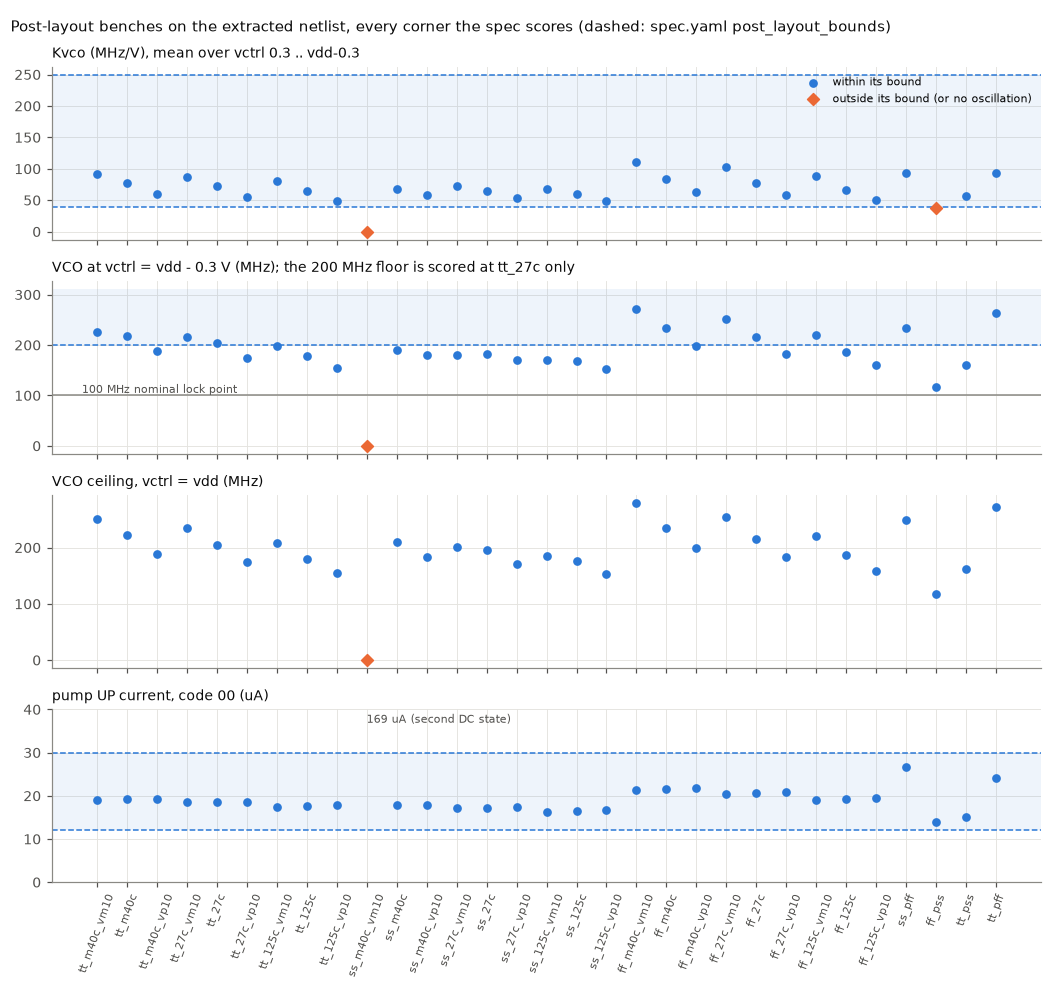
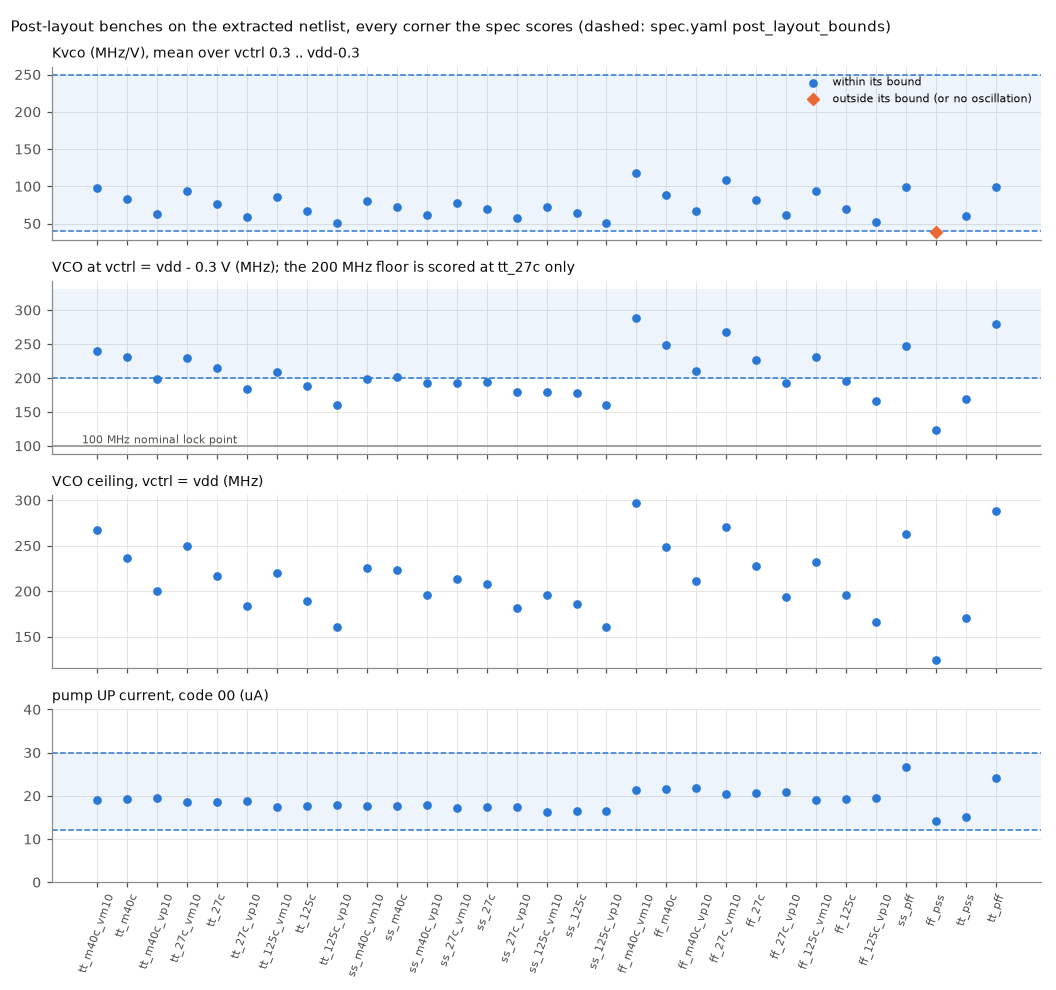
Review page, stages page, figures and GOALS.md report the rebuilt macro and tile: pex_pvt 30/31, ss_m40c_vm10 passes, ff_pss Kvco 39.2

diff --git a/docs/review/stages.md b/docs/review/stages.md
@@ -12,24 +12,24 @@ $CHIP_FLOW_HOME/engine/scripts/gate.py` in place of `chip-flow gate`. The
 commands without chip-flow (the RTL test, klayout, gtkwave) need only those
 tools. Run them from the repository's root.
 
-**23 of 29 gates pass on their last recorded run.** 6 fail.
+**27 of 29 gates pass on their last recorded run.** 2 fail.
 
 ## Spec and split
 
 | gate | shows | result | what it found | run | see it yourself |
 |---|---|---|---|---|---|
 | spec_lint (digital) | the digital requirements are complete and each names its check | pass |  | 2026-10-29 | `blocks/pll/digital/spec/spec.md`<br>`chip-flow gate --gate spec_lint --skill vde --workspace blocks/pll/digital` |
-| spec_lint (analog) | the analog spec's bounds, corners and benches are well formed | pass |  | 2026-10-29 | `blocks/pll/analog/spec/spec.md`<br>`chip-flow gate --gate spec_lint --skill ade --workspace blocks/pll/analog` |
+| spec_lint (analog) | the analog spec's bounds, corners and benches are well formed | pass |  | 2026-10-30 | `blocks/pll/analog/spec/spec.md`<br>`chip-flow gate --gate spec_lint --skill ade --workspace blocks/pll/analog` |
 | split (top) | the analog and digital halves agree on every crossing signal | pass | 6 signals cross the analog/digital line | 2026-10-28 | `blocks/pll/interface.yaml`<br>`chip-flow gate --gate split --skill msde --workspace blocks/pll` |
 
 ## Analog schematic (pre-layout)
 
 | gate | shows | result | what it found | run | see it yourself |
 |---|---|---|---|---|---|
-| netlist_lint (analog) | the netlist parses and every device is a GF180 model | pass |  | 2026-10-29 | `blocks/pll/analog/netlist/pll_analog.cir`<br>`chip-flow gate --gate netlist_lint --skill ade --workspace blocks/pll/analog` |
-| sim_tt (analog) | every bench passes at typical | pass | tt: Icp up 19.0 uA, Kvco 91.9 MHz/V | 2026-10-29 | ngspice decks in `blocks/pll/analog/tb/`<br>`chip-flow gate --gate sim_tt --skill ade --workspace blocks/pll/analog` |
-| sim_pvt (analog) | every bench passes at all 31 PVT corners | pass | 187 bench runs over 31 corners, every bound met | 2026-10-29 | `blocks/pll/analog/reports/recorded/gate-sim_pvt.json` (every measure at every corner)<br>`chip-flow gate --gate sim_pvt --skill ade --workspace blocks/pll/analog` |
-| bench_strength (analog) | the benches catch planted faults in the netlist | pass | 219 of 253 planted netlist faults caught; 34 too small to see, each ruled on | 2026-10-30 | `blocks/pll/analog/log/bench_strength/`<br>`chip-flow gate --gate bench_strength --skill ade --workspace blocks/pll/analog` |
+| netlist_lint (analog) | the netlist parses and every device is a GF180 model | pass |  | 2026-10-30 | `blocks/pll/analog/netlist/pll_analog.cir`<br>`chip-flow gate --gate netlist_lint --skill ade --workspace blocks/pll/analog` |
+| sim_tt (analog) | every bench passes at typical | pass | tt: Icp up 19.0 uA, Kvco 91.9 MHz/V | 2026-10-30 | ngspice decks in `blocks/pll/analog/tb/`<br>`chip-flow gate --gate sim_tt --skill ade --workspace blocks/pll/analog` |
+| sim_pvt (analog) | every bench passes at all 31 PVT corners | pass | 187 bench runs over 31 corners, every bound met | 2026-10-30 | `blocks/pll/analog/reports/recorded/gate-sim_pvt.json` (every measure at every corner)<br>`chip-flow gate --gate sim_pvt --skill ade --workspace blocks/pll/analog` |
+| bench_strength (analog) | the benches catch planted faults in the netlist | pass | 220 of 253 planted netlist faults caught; 33 too small to see, each ruled on | 2026-10-30 | `blocks/pll/analog/log/bench_strength/`<br>`chip-flow gate --gate bench_strength --skill ade --workspace blocks/pll/analog` |
 
 ## Digital RTL
 
@@ -47,8 +47,8 @@ tools. Run them from the repository's root.
 | gate | shows | result | what it found | run | see it yourself |
 |---|---|---|---|---|---|
 | synth (digital) | the RTL synthesises to GF180 standard cells | pass | 113 cells, gf180mcu_fd_sc_mcu7t5v0 | 2026-10-29 | `chip-flow gate --gate synth --skill vde --workspace blocks/pll/digital` |
-| harden (digital) | the digital half places and routes on its own | pass | 1501 instances, setup WNS -1.18 ns, hold WNS 0.43 ns | 2026-10-29 | `chip-flow gate --gate harden --skill vde --workspace blocks/pll/digital` |
-| timing (digital) | setup and hold meet with the VCO clock at 2.7 ns, every STA corner | **FAIL** | worst setup -1.20 ns at max_ss_125C_3v00; hold >= 0.42 ns everywhere; corner max_ss_125C_3v00: worst setup slack -1.2000ns | 2026-10-29 | issue 8 in `blocks/pll/digital/state.json`; GOALS.md's digital issue 8 goal<br>`chip-flow gate --gate timing --skill vde --workspace blocks/pll/digital` |
+| harden (digital) | the digital half places and routes on its own | pass | 1501 instances, setup WNS -1.18 ns, hold WNS 0.43 ns | 2026-10-30 | `chip-flow gate --gate harden --skill vde --workspace blocks/pll/digital` |
+| timing (digital) | setup and hold meet with the VCO clock at 2.7 ns, every STA corner | **FAIL** (waived, pending your review: `blocks/pll/digital/reports/waivers.json`) | worst setup -1.20 ns at max_ss_125C_3v00; hold >= 0.42 ns everywhere; corner max_ss_125C_3v00: worst setup slack -1.2000ns | 2026-10-30 | issue 8 in `blocks/pll/digital/state.json`; GOALS.md's digital issue 8 goal<br>`chip-flow gate --gate timing --skill vde --workspace blocks/pll/digital` |
 | drc (digital) | the digital layout is DRC clean | pass | magic 0, klayout 0 violations | 2026-10-29 | `chip-flow gate --gate drc --skill vde --workspace blocks/pll/digital` |
 | lvs (digital) | the digital layout matches its netlist | pass | layout matches the netlist | 2026-10-29 | `chip-flow gate --gate lvs --skill vde --workspace blocks/pll/digital` |
 | glsim (digital) | the tests pass on the gate-level netlist, with and without delays | pass | functional 18/18, sdf 18/18 | 2026-10-29 | `chip-flow gate --gate glsim --skill vde --workspace blocks/pll/digital` |
@@ -64,19 +64,19 @@ tools. Run them from the repository's root.
 
 | gate | shows | result | what it found | run | see it yourself |
 |---|---|---|---|---|---|
-| drc (analog) | the analog layout is DRC clean | pass | klayout: 0 violations | 2026-10-29 | `klayout blocks/pll/analog/layout/pll_analog.gds`<br>`chip-flow gate --gate drc --skill ade --workspace blocks/pll/analog` |
-| lvs (analog) | the analog layout matches the signed-off netlist | pass | layout matches the netlist | 2026-10-29 | `blocks/pll/analog/layout/gen_pll_analog.py` draws it<br>`chip-flow gate --gate lvs --skill ade --workspace blocks/pll/analog` |
-| pex_sim (analog) | the benches run on the extracted netlist at typical | pass | tt extracted: Icp 18.9 uA, Kvco 71.7 MHz/V, fmax 200.8 MHz; 1297 parasitic C | 2026-10-29 | `chip-flow gate --gate pex_sim --skill ade --workspace blocks/pll/analog` |
-| pex_pvt (analog) | the extracted netlist meets its post-layout bounds at every corner | **FAIL** | 30 of 31 corners pass their post-layout bounds; vco_kvco_mhz_per_v @ ff_pss = 36.1503 outside bound [40.0, 250.0] (post-layout mean df/dv over vctrl 0.3 .. vdd-0.3 V (spec.yaml post_layout | - | every measure at every corner: `blocks/pll/analog/reports/recorded/pex_pvt.json`<br>`chip-flow eda python blocks/pll/analog/layout/pex_pvt.py --workspace blocks/pll/analog --out blocks/pll/analog/reports/recorded/pex_pvt.json` |
+| drc (analog) | the analog layout is DRC clean | pass | klayout: 0 violations | 2026-10-30 | `klayout blocks/pll/analog/layout/pll_analog.gds`<br>`chip-flow gate --gate drc --skill ade --workspace blocks/pll/analog` |
+| lvs (analog) | the analog layout matches the signed-off netlist | pass | layout matches the netlist | 2026-10-30 | `blocks/pll/analog/layout/gen_pll_analog.py` draws it<br>`chip-flow gate --gate lvs --skill ade --workspace blocks/pll/analog` |
+| pex_sim (analog) | the benches run on the extracted netlist at typical | pass | tt extracted: Icp 18.8 uA, Kvco 77.3 MHz/V, fmax 216.3 MHz; 1411 parasitic C | 2026-10-30 | `chip-flow gate --gate pex_sim --skill ade --workspace blocks/pll/analog` |
+| pex_pvt (analog) | the extracted netlist meets its post-layout bounds at every corner | **FAIL** | 30 of 31 corners pass their post-layout bounds; vco_kvco_mhz_per_v @ ff_pss = 39.2051 outside bound [40.0, 250.0] (post-layout mean df/dv over vctrl 0.3 .. vdd-0.3 V (spec.yaml post_layout | - | every measure at every corner: `blocks/pll/analog/reports/recorded/pex_pvt.json`<br>`chip-flow eda python blocks/pll/analog/layout/pex_pvt.py --workspace blocks/pll/analog --out blocks/pll/analog/reports/recorded/pex_pvt.json` |
 
 ## Full tile (Tiny Tapeout submission shape)
 
 | gate | shows | result | what it found | run | see it yourself |
 |---|---|---|---|---|---|
-| top_harden (top) | the digital half hardens around the analog macro into one tile | **FAIL** | 2522 instances around the analog macro, setup WNS 0.06 ns; librelane exited 2: 24 LVS errors found. - deferred  | 2026-10-30 | `chip-flow gate --gate top_harden --skill msde --workspace blocks/pll` |
-| top_drc (top) | the whole tile is DRC clean | **FAIL** | magic 0, klayout 1 violations; klayout gf180mcu.drc: 1 violation(s) | 2026-10-30 | `chip-flow gate --gate top_drc --skill msde --workspace blocks/pll` |
-| top_lvs (top) | the whole tile matches its netlist, analog macro included | **FAIL** | no match: Top level cell failed pin matching.; netgen: the assembled layout does not match the powered netlist with the analog macro: Top level cell failed pin matching. uio_out[1]        | 2026-10-30 | `blocks/pll/log/top_lvs/top_lvs.rpt` after a run<br>`chip-flow gate --gate top_lvs --skill msde --workspace blocks/pll` |
-| precheck (top) | the tile passes Tiny Tapeout's precheck | **FAIL** | 12 Tiny Tapeout checks run; KLayout Checks: Forbidden layer Metal5 found in top/log/precheck_run/design/tt_um_ihsan_sa_pll.gds | 2026-10-30 | `chip-flow gate --gate precheck --skill msde --workspace blocks/pll` |
+| top_harden (top) | the digital half hardens around the analog macro into one tile | pass | 2363 instances around the analog macro, setup WNS 2.63 ns | 2026-10-30 | `chip-flow gate --gate top_harden --skill msde --workspace blocks/pll` |
+| top_drc (top) | the whole tile is DRC clean | pass | magic 0, klayout 0 violations | 2026-10-30 | `chip-flow gate --gate top_drc --skill msde --workspace blocks/pll` |
+| top_lvs (top) | the whole tile matches its netlist, analog macro included | pass | layout matches the netlist | 2026-10-30 | `blocks/pll/log/top_lvs/top_lvs.rpt` after a run<br>`chip-flow gate --gate top_lvs --skill msde --workspace blocks/pll` |
+| precheck (top) | the tile passes Tiny Tapeout's precheck | pass | 12 Tiny Tapeout checks run | 2026-10-30 | `chip-flow gate --gate precheck --skill msde --workspace blocks/pll` |
 
 ## Your sign-offs
 

diff --git a/GOALS.md b/GOALS.md
@@ -26,13 +26,13 @@ Filed by runs. Each says what done looks like as something a run can check, and 
 
 ### Lay out the analog half and match it after extraction
 
-- **Status:** open (moved up 2026-10-28). `blocks/pll/analog/layout/gen_pll_analog.py` passes drc (0) and lvs (unique match). On 2026-10-29 the post-layout bench runs at every corner the spec scores: `layout/pex_pvt.py` runs `layout_ref/pll_analog_pex_pvt_tb.cir` (the pex bench with the corner left open, bounds = spec.yaml post_layout_bounds) through the engine's sim_run at all 31 corners on the extracted netlist. 29 of 31 pass. Two miss: at tt_27c the VCO reads 196 MHz at vctrl = vdd-0.3 V against the 200 MHz floor, and at ff_pss Kvco is 35 MHz/V against 40. Task 261029-152124 redrew the ring block (gate vias over the left pad, columns 0.6 um apart, NAND/output tops level with the stage inverters, channel pitch 0.8): r1..r5 carry 9-25% less extracted C and tt_27c reads 202.7 MHz, a pass. ff_pss stays at 36.1 MHz/V; with every ring node's wire C taken out it would read 44, so it needs a design decision (R_V2I or the bound). ss_m40c_vm10 failed after that: the bias reference's start-up never released there (vst held high, MN_ST's kick pulling vbp and, through MN_B2 in triode, vref down to 0.76 V, below MN_STD's threshold), leaving Ib at ~42 uA (Icp 168 uA, bias_ref 0.51 V). Pre-layout it released by 0.08 uA; extracted, not at all. Task 261030-001020 made MN_ST 4 um long (was 2): with vst forced high the cell now pulls it down by at least 15.9 uA at every corner, extracted (2.0 uA was the worst outside ss_m40c_vm10 before), the pre-layout start-up at ss_m40c_vm10 takes 0.92 us (was 1.63), and post-layout ss_m40c_vm10 reads Icp 17.6 uA: 30 of 31 corners pass, ff_pss Kvco the one miss. tt_pss passes or fails depending on magic's element order ("Dynamic gmin stepping failed" before true gmin stepping converges is read as an engine error). magic's extresist also counts each net's coupling C twice: once as coupling, once as ground C on its rnodes. The 226 MHz recorded at typical before was optimistic: magic's parasitic extraction dropped the coupling capacitance of every unlabelled net, about half the wire C on the ring nodes, so the generator now labels every routed internal net. Post-layout the VCO's ceiling (vctrl = vdd) is 110-266 MHz over the corners, below the pre-layout 150 MHz floor at ff_pss (110 MHz) and right at it at ss_125c_vp10 (150.0) and tt_125c_vp10 (151.0). Started from pll_en rising with no kick (`layout_ref/pll_analog_pex_start_tb.cir`), the extracted ring runs at all 31 corners with vctrl at vdd-0.3 V, but not with vctrl at 0.3 V at ff_125c or tt_125c (all three supplies each; tt_125c on c0301c6's extraction too). ss_m40c_vm10 starts since MN_ST was lengthened. H2 is presented as challenge H2-a9fad5 and waits for the owner.
+- **Status:** open (moved up 2026-10-28). `blocks/pll/analog/layout/gen_pll_analog.py` passes drc (0) and lvs (unique match). On 2026-10-29 the post-layout bench runs at every corner the spec scores: `layout/pex_pvt.py` runs `layout_ref/pll_analog_pex_pvt_tb.cir` (the pex bench with the corner left open, bounds = spec.yaml post_layout_bounds) through the engine's sim_run at all 31 corners on the extracted netlist. 29 of 31 pass. Two miss: at tt_27c the VCO reads 196 MHz at vctrl = vdd-0.3 V against the 200 MHz floor, and at ff_pss Kvco is 35 MHz/V against 40. Task 261029-152124 redrew the ring block (gate vias over the left pad, columns 0.6 um apart, NAND/output tops level with the stage inverters, channel pitch 0.8): r1..r5 carry 9-25% less extracted C and tt_27c reads 202.7 MHz, a pass. ff_pss stays at 36.1 MHz/V; with every ring node's wire C taken out it would read 44, so it needs a design decision (R_V2I or the bound). ss_m40c_vm10 failed after that: the bias reference's start-up never released there (vst held high, MN_ST's kick pulling vbp and, through MN_B2 in triode, vref down to 0.76 V, below MN_STD's threshold), leaving Ib at ~42 uA (Icp 168 uA, bias_ref 0.51 V). Pre-layout it released by 0.08 uA; extracted, not at all. Task 261030-001020 made MN_ST 4 um long (was 2): with vst forced high the cell now pulls it down by at least 15.9 uA at every corner, extracted (2.0 uA was the worst outside ss_m40c_vm10 before), the pre-layout start-up at ss_m40c_vm10 takes 0.92 us (was 1.63), and post-layout ss_m40c_vm10 reads Icp 17.6 uA: 30 of 31 corners pass, ff_pss Kvco the one miss. tt_pss passes or fails depending on magic's element order ("Dynamic gmin stepping failed" before true gmin stepping converges is read as an engine error). magic's extresist also counts each net's coupling C twice: once as coupling, once as ground C on its rnodes. The 226 MHz recorded at typical before was optimistic: magic's parasitic extraction dropped the coupling capacitance of every unlabelled net, about half the wire C on the ring nodes, so the generator now labels every routed internal net. Post-layout the VCO's ceiling (vctrl = vdd) is 110-266 MHz over the corners, below the pre-layout 150 MHz floor at ff_pss (110 MHz) and right at it at ss_125c_vp10 (150.0) and tt_125c_vp10 (151.0). Started from pll_en rising with no kick (`layout_ref/pll_analog_pex_start_tb.cir`), the extracted ring runs at all 31 corners with vctrl at vdd-0.3 V, but not with vctrl at 0.3 V at ff_125c or tt_125c (all three supplies each; tt_125c on c0301c6's extraction too). ss_m40c_vm10 starts since MN_ST was lengthened. H2 is presented as challenge H2-a9fad5 and waits for the owner. On 2026-10-30 (task 261030-101238) the layout was rebuilt with the MOS-cap loop filter and MN_ST at 4 um together, and extracted with chip-flow's coupling-C fix (3c085e6): drc and lvs pass, pex_sim passes, and pex_pvt passes 30 of 31 corners. ss_m40c_vm10 passes, and ff_pss Kvco reads 39.2 MHz/V against 40, the one miss and the owner's decision. The VCO reads about 6% faster than on the double-counted extraction: its ceiling at vdd is 124-297 MHz over the corners (ss 263.2 at ss_pff).
 - **What:** Once the analog sign-off is recorded with the owner's approval, draw the layout of the analog half, pass DRC and LVS against the signed-off netlist, extract its parasitics, and rerun the analog benches on the extracted netlist against the spec's post-layout bounds. Matching, the charge pump's mirrors and the VCO ring's symmetry are the places where layout can eat the thin margins the review lists.
 - **Done when:** DRC and LVS pass on the analog layout, and every analog bench passes its post-layout bounds on the extracted netlist at every corner the spec scores.
 
 ### Harden the tile and pass the Tiny Tapeout precheck
 
-- **Status:** open, the last step left is on main (2026-10-30, task 261030-011402). The tile hardens: top_harden, top_drc (magic 0, klayout 0) and top_lvs (unique match) pass, and so does Tiny Tapeout's precheck. The precheck also passes run on the committed `gds/`, `lef/`, `src/project.v` and `info.yaml` themselves. The repository is in the analog template's shape (`blocks/pll/tt/assemble.py`: the real top and RTL in `src/`, an RTL test in `test/`, a 1x2 analog `info.yaml`, the `custom_gds` gds workflow). Getting there took an analog change and three chip-flow fixes. Precheck forbids Metal5 ("KLayout Checks: Forbidden layer Metal5 found"), and a MIM-B cap's top plate is Metal5, so C1/C2 are now MOS caps (cap_nmos_03v3_b), pending the owner's review (`docs/review/README.md`). The chip-flow fixes run from a local copy of the module and are filed as hive-chip-flow work: PR #28, brief 261030-033156 and brief 261030-043908. What's left is the gds, docs and test workflows passing on main.
+- **Status:** open, the last step left is on main (2026-10-30, task 261030-011402). The tile hardens: top_harden, top_drc (magic 0, klayout 0) and top_lvs (unique match) pass, and so does Tiny Tapeout's precheck. The precheck also passes run on the committed `gds/`, `lef/`, `src/project.v` and `info.yaml` themselves. The repository is in the analog template's shape (`blocks/pll/tt/assemble.py`: the real top and RTL in `src/`, an RTL test in `test/`, a 1x2 analog `info.yaml`, the `custom_gds` gds workflow). Getting there took an analog change and three chip-flow fixes. Precheck forbids Metal5 ("KLayout Checks: Forbidden layer Metal5 found"), and a MIM-B cap's top plate is Metal5, so C1/C2 are now MOS caps (cap_nmos_03v3_b), pending the owner's review (`docs/review/README.md`). Those chip-flow fixes have since landed in the module (PR #28, briefs 261030-033156 and 261030-043908), and on 2026-10-30 (task 261030-101238) the tile was rebuilt from the installed module on the MOS-cap + MN_ST macro: top_harden, top_drc, top_lvs and precheck pass again, and `assemble.py` refreshed `gds/` and `lef/`. What's left is the gds, docs and test workflows passing on main.
 - **What:** With the analog layout done, harden the digital half around the analog macro into one tile, run full-tile DRC and LVS, and pass the Tiny Tapeout precheck. Replace the template placeholder in `src/` and the template README with the real design, so the Tiny Tapeout gds, docs and test workflows build and test this design rather than the template.
 - **Done when:** the tile hardens with no DRC or LVS errors, the Tiny Tapeout precheck passes, and the gds, docs and test workflows pass on main with the real design in `src/`.
 

diff --git a/docs/review/README.md b/docs/review/README.md
@@ -20,7 +20,7 @@ Regenerate the figures after any result changes:
 | Whole loop in co-simulation (RTL + transistor-level analog) | done: locks at 100.000 MHz in 4.48 us; all three layers pass with the MOS caps | `blocks/pll/tb/README.md`, figure below |
 | Digital timing with the VCO clock at 2.7 ns | tt and ff meet; ss_125C waived (decision 2), recorded in `digital/reports/waivers.json` | `blocks/pll/digital/state.json` issue 8 |
 | Analog layout | DRC clean, LVS unique match | `blocks/pll/analog/layout/` |
-| Post-layout benches on the extracted netlist | 29 of 31 corners pass; ss_m40c_vm10 and ff_pss do not (below) | `blocks/pll/analog/reports/recorded/pex_pvt.json` |
+| Post-layout benches on the extracted netlist | 30 of 31 corners pass; ff_pss does not (below) | `blocks/pll/analog/reports/recorded/pex_pvt.json` |
 | Full tile (digital hardened around the analog macro) | **done**: top_harden, top_drc (magic 0, klayout 0), top_lvs (unique match) | `gds/tt_um_ihsan_sa_pll.gds`, `blocks/pll/reports/recorded/` |
 | Tiny Tapeout precheck | **passes**, both from chip-flow's gate and run on the committed `gds/`, `lef/`, `src/project.v` and `info.yaml` themselves | figure below |
 | Repository in Tiny Tapeout's analog-project shape | **done**: `src/` (real top + RTL), `test/` (RTL test, 4/4), 1x2 analog `info.yaml`, `custom_gds` gds workflow | `blocks/pll/tt/README.md` |
@@ -76,12 +76,11 @@ behavioural model of the analog macro and takes about a second:
 
 What fails, and why:
 
-- **ss_m40c_vm10**: the bias reference settles in its second DC operating
-  point (pump current 168 uA, no oscillation). This is a real start-up risk,
-  not a bench artefact: the start-up circuit never releases at this corner.
-  Task 261030-001020 found it and has a fix (MN_ST L 2 -> 4 um), which
-  brings pex_pvt to 30 of 31. It merges after this change.
-- **ff_pss**: Kvco reads 37.1 MHz/V against a 40 MHz/V floor (decision 3).
+- **ff_pss**: Kvco reads 39.2 MHz/V against a 40 MHz/V floor (decision 3).
+- ss_m40c_vm10 used to fail too: the bias reference settled in its second DC
+  operating point (pump current 168 uA, no oscillation). Task 261030-001020's
+  fix (MN_ST L 2 -> 4 um) is in this layout, and the corner passes
+  (Icp 17.5 uA, Kvco 80.1 MHz/V).
 
 One thing the figure shows that no bound catches: at ff_pss the VCO's ceiling
 is about 115 MHz after layout (158 MHz before). Every corner still reaches the
@@ -114,6 +113,15 @@ about 200 MHz) only holds at typical. Decision 4 covers it.
    to about 1%. Every pre-layout bound passes at all 31 corners, before and
    after. Post-layout, the same two corners miss as before (ss_m40c_vm10,
    ff_pss).
+
+   Since this table: the MN_ST fix is merged into this layout, and
+   chip-flow's extraction stopped counting each net's coupling C twice
+   (hive-chip-flow 3c085e6). Rebuilt with both (task 261030-101238),
+   pex_pvt passes 30 of 31. ss_m40c_vm10 passes. ff_pss Kvco reads 39.2,
+   and the VCO reads about 6% faster at every corner: tt_27c 215.3 MHz at
+   vdd-0.3 V, Kvco 77.0 MHz/V. The current numbers per corner are in
+   `blocks/pll/analog/reports/recorded/pex_pvt.json`. The table keeps the
+   MIM-vs-MOS comparison on one extraction.
 
    Pre-layout (sim_pvt, every bound passes before and after), and post-layout (pex_pvt on the extracted netlist), MIM before / MOS after:
 
@@ -161,11 +169,12 @@ about 200 MHz) only holds at typical. Decision 4 covers it.
    1.2 ns at ss_125C. No flop in the GF180 library toggles that fast at ss.
    It is waived at that corner because the VCO can't go that fast at ss:
    after layout, the fastest corner with slow transistors (ss_pff)
-   reaches 247 MHz at the rail, and the stage manages 274 MHz. A recovery circuit also pulls the loop back if it
+   reaches 263 MHz at the rail (247 before chip-flow's extraction fix),
+   and the stage manages 274 MHz. A recovery circuit also pulls the loop back if it
    ever runs away. The approval on record is the lead's under your 10-28
    "i signoff" message, not your own ruling. Details are in issue 8 of
    `blocks/pll/digital/state.json`.
-3. **ff_pss Kvco, 36 vs 40 MHz/V (open).** The 40 MHz/V floor protects loop
+3. **ff_pss Kvco, 39.2 vs 40 MHz/V (open).** The 40 MHz/V floor protects loop
    gain, and through it the phase margin. The decision rests on the phase
    margin at ff_pss, not the Kvco number. The linear loop model (layer 1,
    `blocks/pll/tb/pll_loop_model.py`) with ff_pss's post-layout pump current
@@ -191,10 +200,8 @@ about 200 MHz) only holds at typical. Decision 4 covers it.
 
 ## What is left
 
-1. Merge with task 261030-001020's bias start-up fix (MN_ST), then rebuild:
-   the analog layout, pex_pvt, the tile, precheck, and `assemble.py`.
-2. The ff_pss decision (3 above).
-3. The gds, docs and test workflows passing on main with this design.
-4. The local chip-flow fixes landing in the module: hive-chip-flow PR #28,
-   and briefs 261030-033156 and 261030-043908. Until they land, the module
-   as installed can't rebuild this tile. The diff is in this run's notes.
+1. The ff_pss decision (3 above).
+2. The gds, docs and test workflows passing on main with this design.
+
+Every stage's last recorded result, and how to re-run it, is on
+[stages.md](stages.md).

diff --git a/README.md b/README.md
@@ -7,7 +7,8 @@ GF180 tile. A current-starved ring VCO is locked to the reference on `clk`, at
 8 × N times the reference (N = 1 to 5), with a lock detector.
 
 - **To review it** (where it stands, pictures, the decisions waiting for
-  you): [docs/review/README.md](docs/review/README.md)
+  you): [docs/review/README.md](docs/review/README.md); every stage's
+  result and how to see it: [docs/review/stages.md](docs/review/stages.md)
 - The datasheet: [docs/info.md](docs/info.md)
 - Goals and their status: [GOALS.md](GOALS.md)
 
